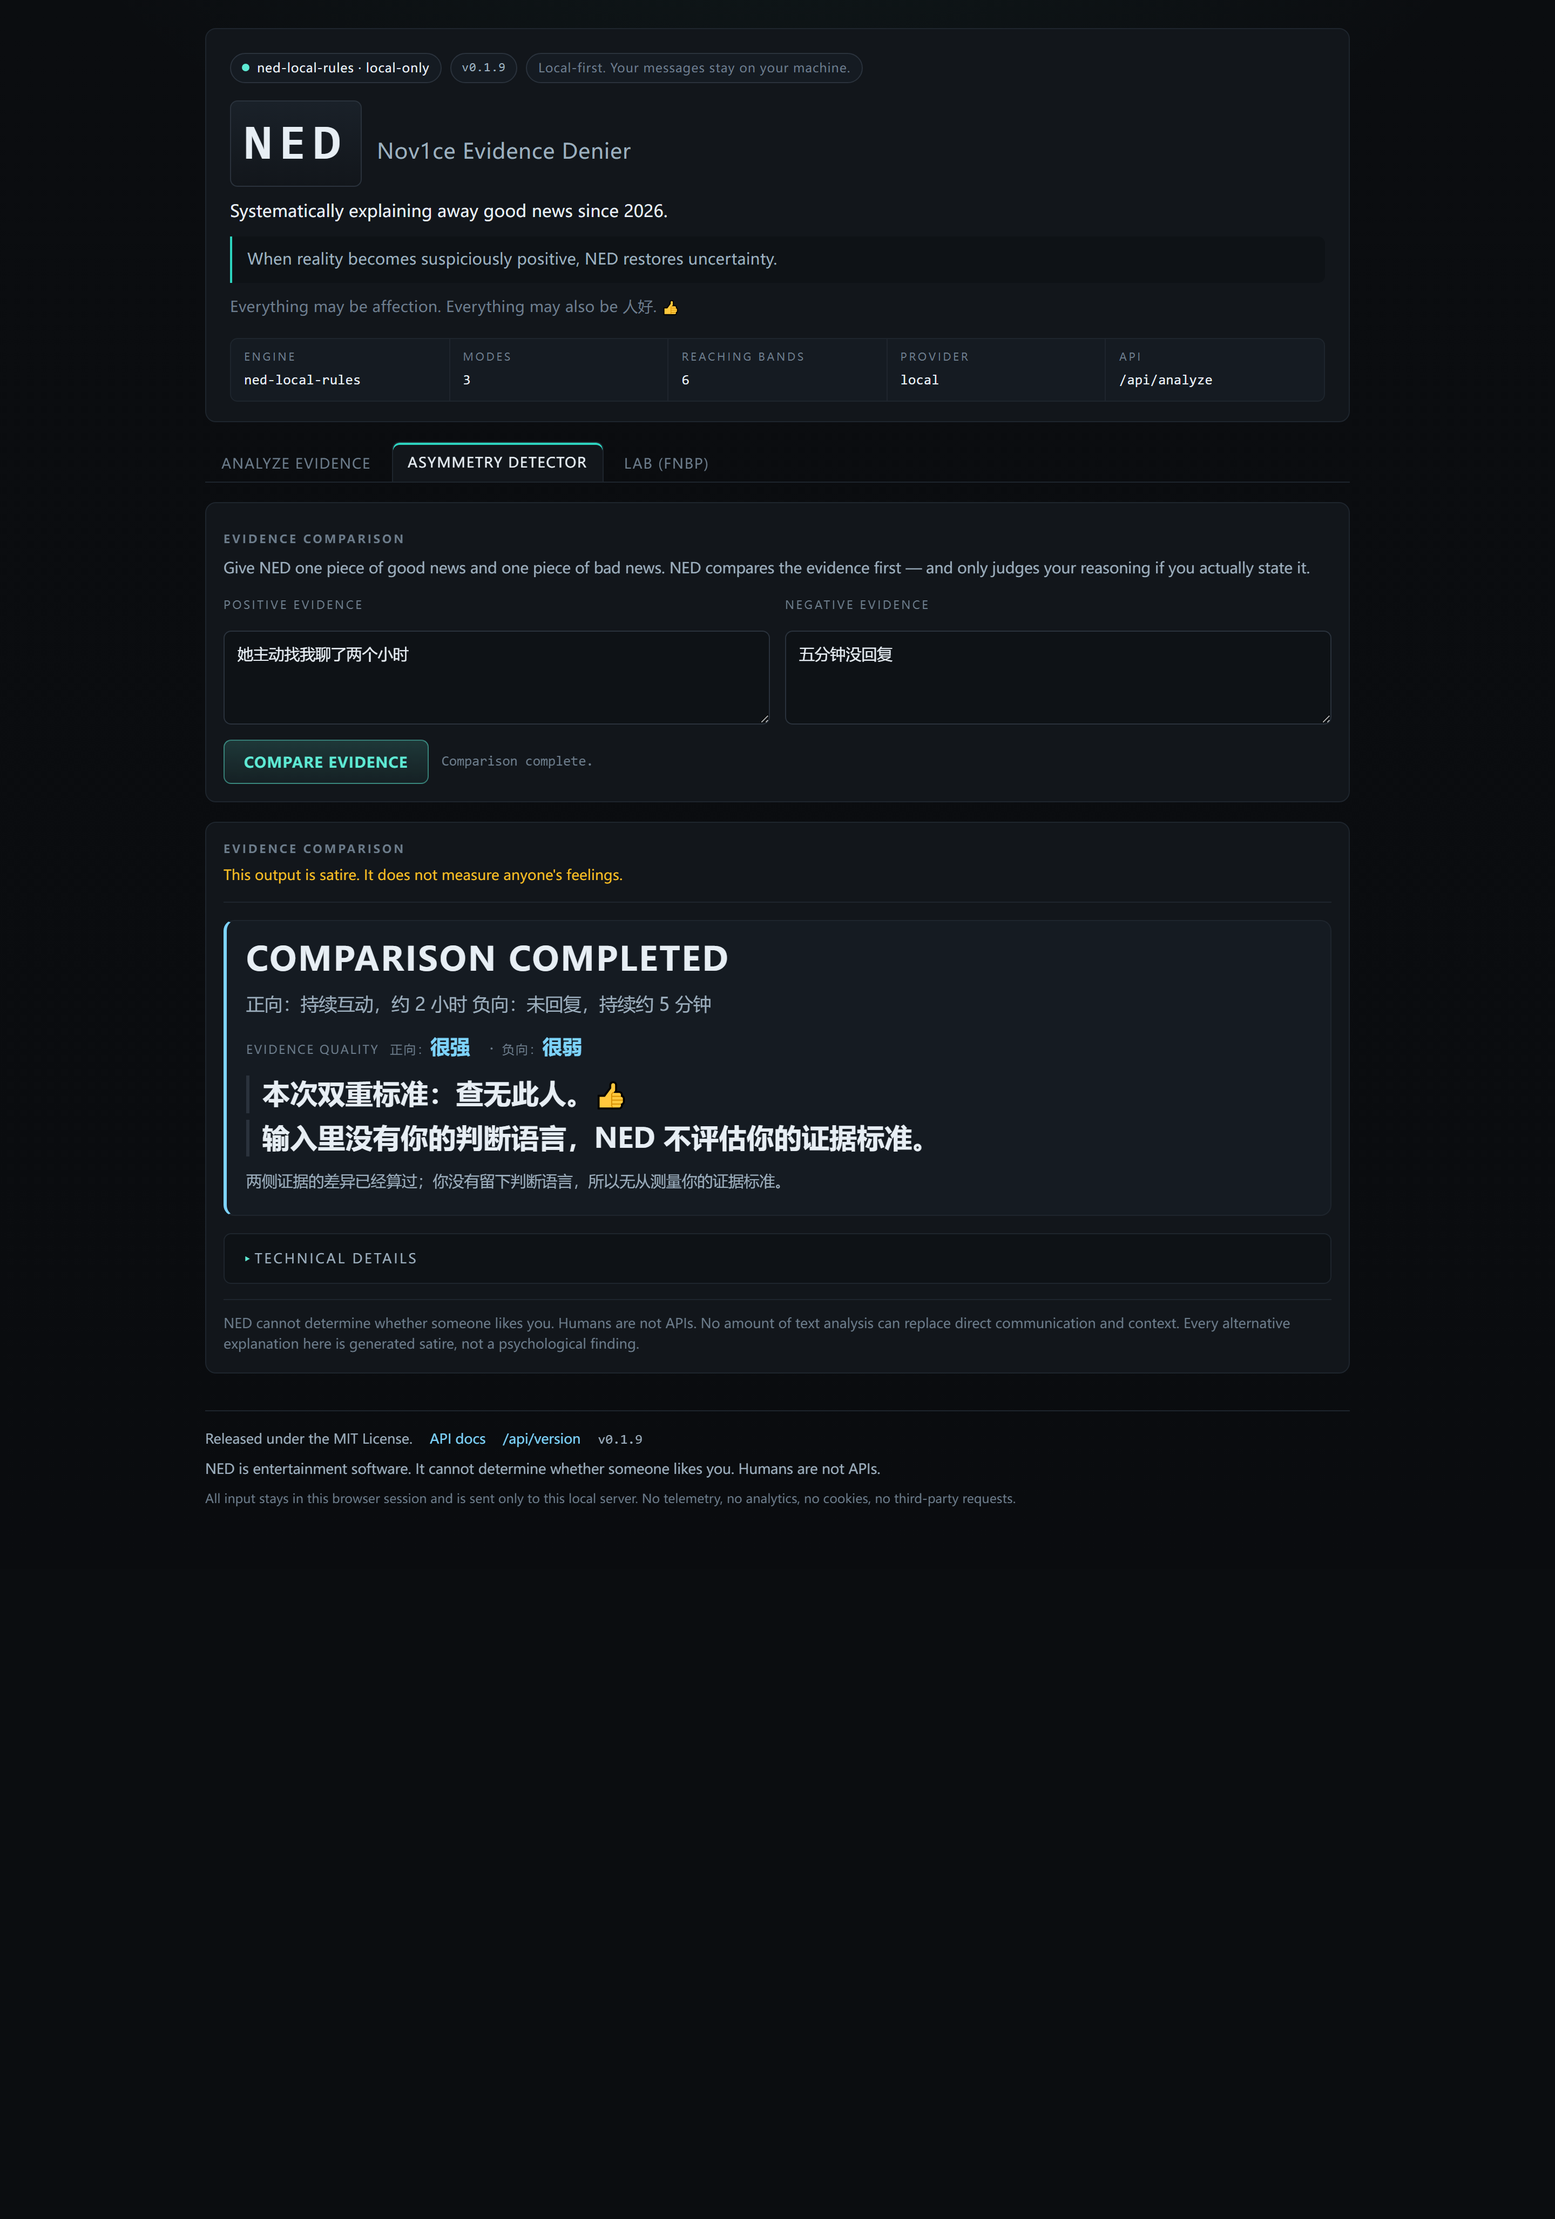
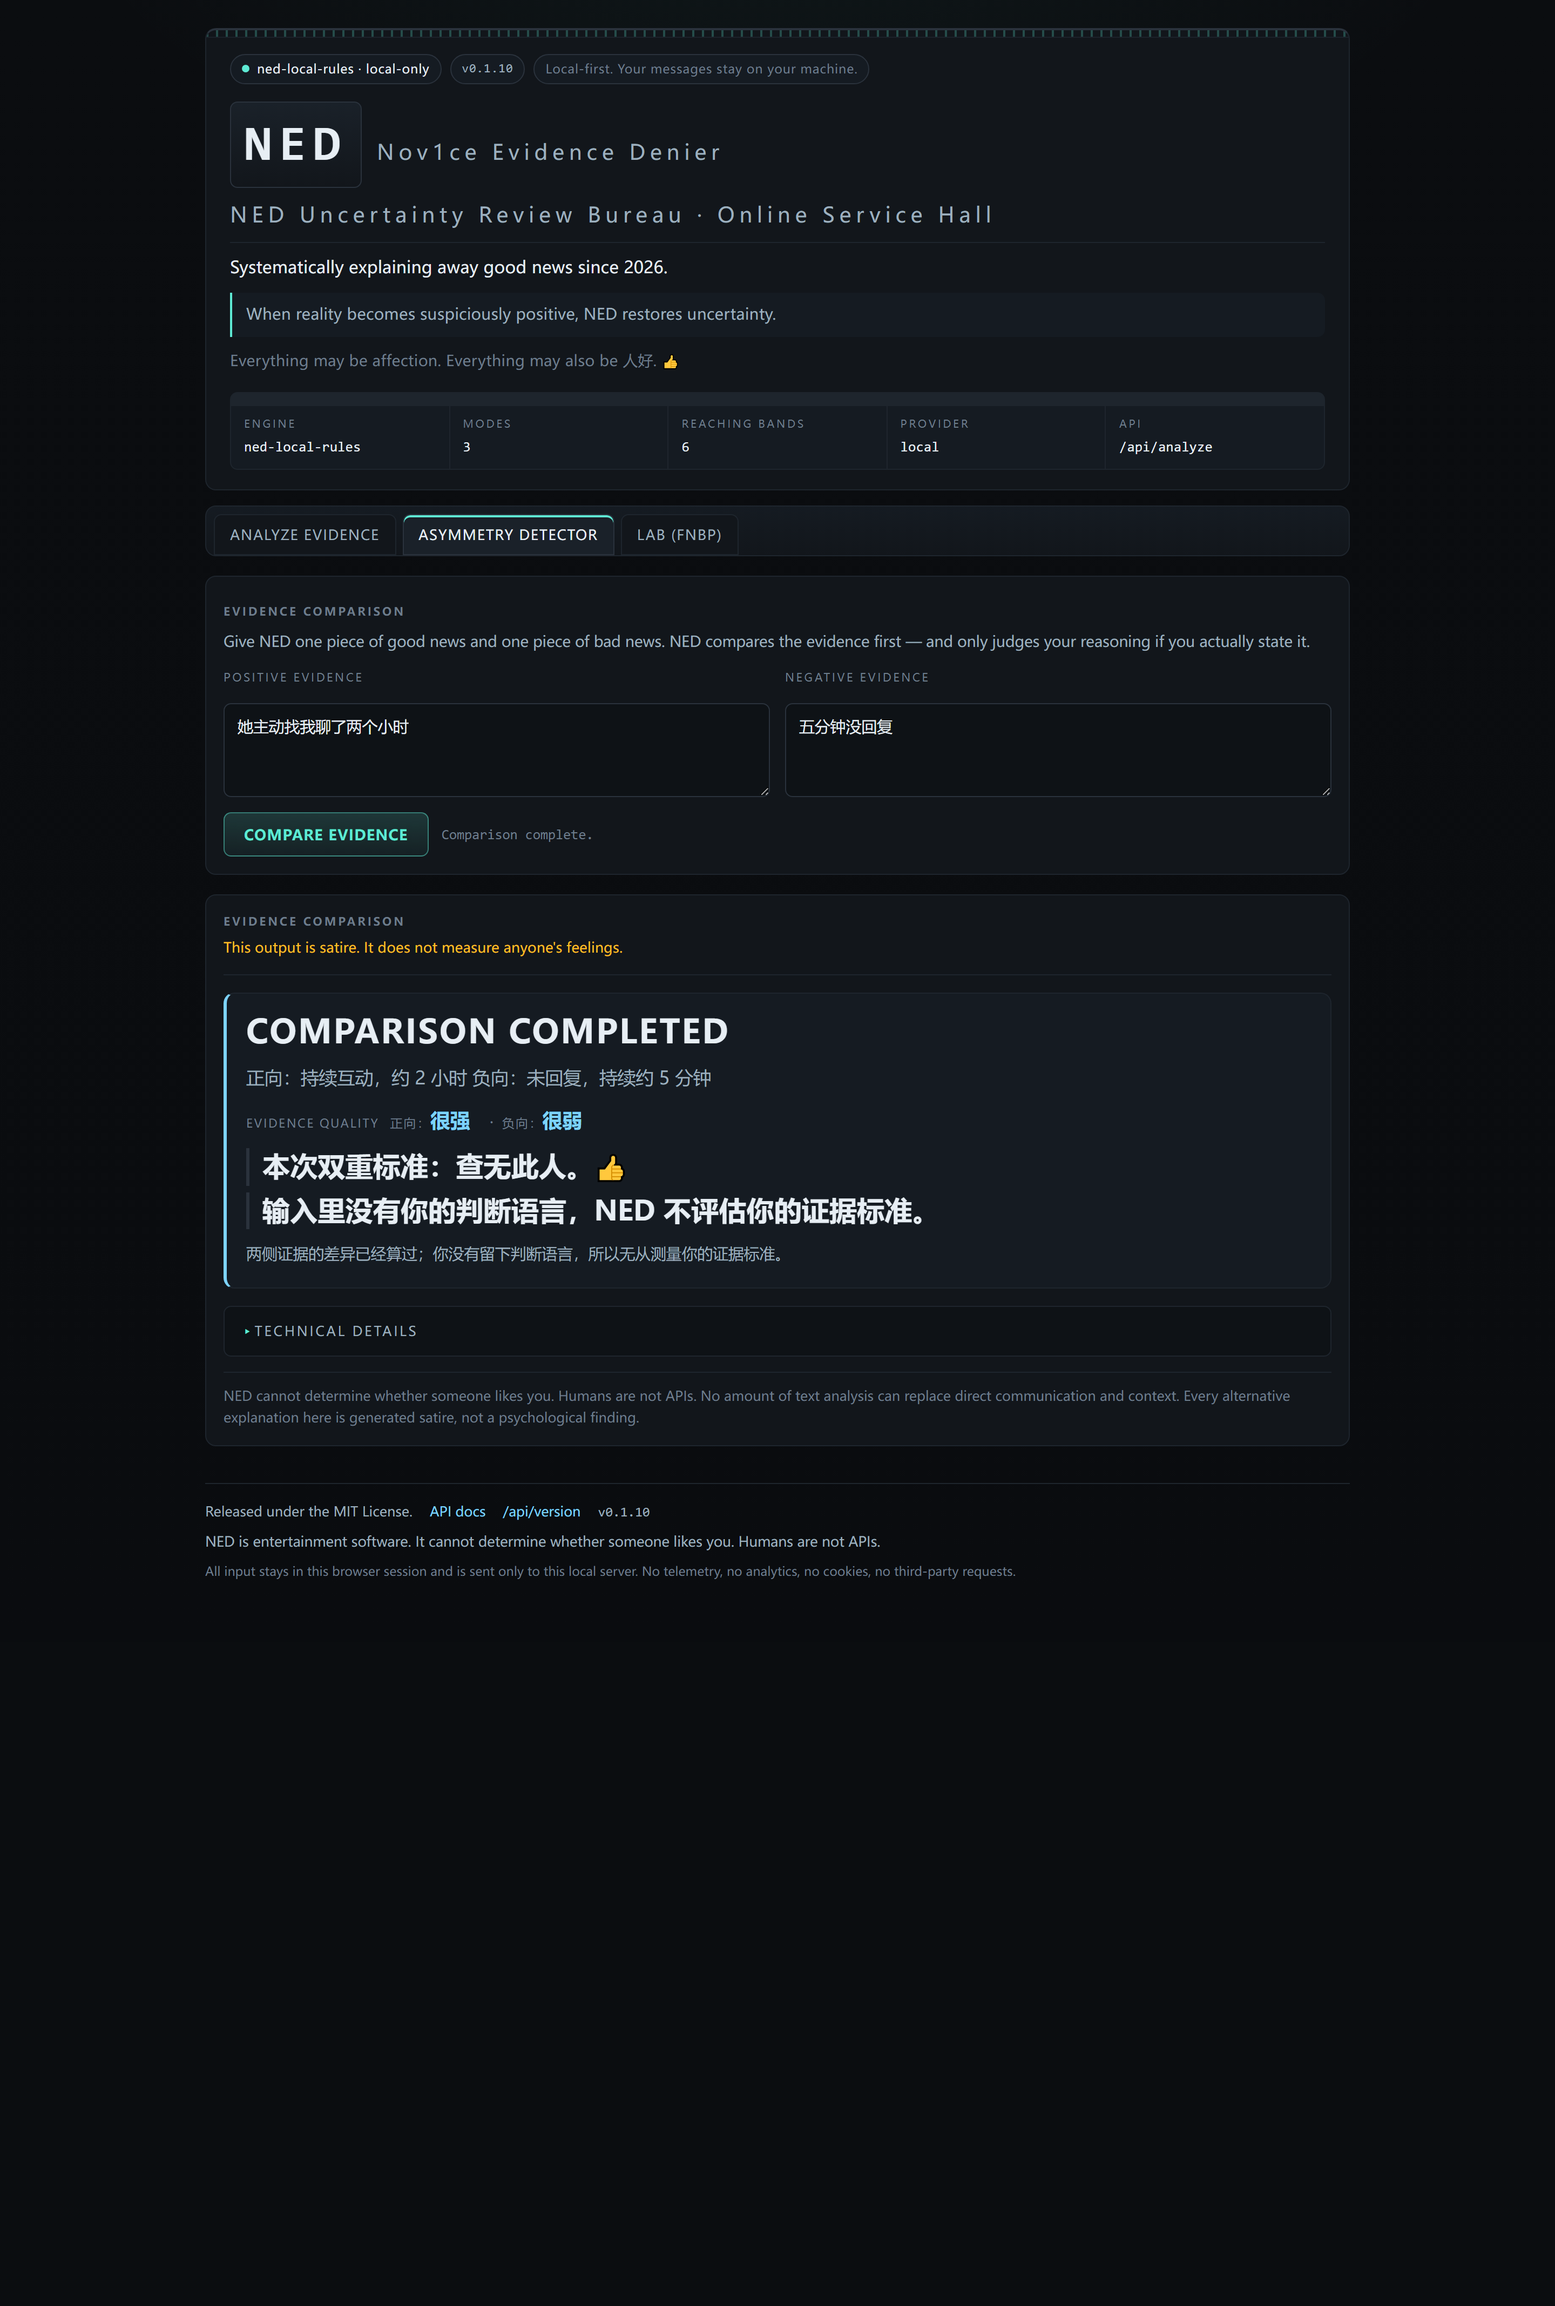
fix: verify the screenshots rendered, and re-capture the front desk
Two of the four capture readiness gates could never become true, so those images were shot
unverified: the asymmetry gate waited on #asym-score-value, an element two permanent pins ban
from the served page, and the FNBP gate counted child elements in #fnbp-log, which the renderer
fills with text instead. Both could only time out for twenty seconds, and the old wait_for result
was ignored. The gates now wait on what the current render contract actually sets - the
comparison screen title and verdict sentence, and the FNBP verdict sentence plus a non-empty
trace - the blind sleep before the CLI shot is replaced by a gate of the same kind, and
require_ready aborts instead of shooting without a verified signal. That guard is what surfaced
the second dead gate instead of silently shipping another unverified image.

With the gates fixed, the three web images are re-captured from the served 0.1.10 page into a
clean output directory and then put in place: renewed front desk (bureau line, window directory,
intake window, review record), each scenario's own report populated, and the 0.1.10 badge inside
every shot. The README rows read "current" again for those three, with the reproduction commands
unchanged. The CLI image is deliberately not regenerated: the script renders it from the
committed docs/cli-extreme.txt, which it reads rather than produces, so re-rendering reproduces a
byte-identical PNG whose last line still prints 0.1.9. That row stays marked historical with the
[…]

diff --git a/scripts/capture_screenshots.py b/scripts/capture_screenshots.py
@@ -120,6 +120,20 @@ class DevTools:
             await asyncio.sleep(0.25)
         return False
 
+    async def require_ready(self, expression: str, what: str, timeout: float = 20.0) -> None:
+        """Wait for a real readiness signal and refuse to shoot without one.
+
+        A gate that can never become true must fail loudly. The asymmetry gate used to
+        wait on ``#asym-score-value``, an element the served page no longer contains, so
+        it timed out for twenty seconds and the screenshot was taken anyway, unverified.
+        """
+
+        if not await self.wait_for(expression, timeout=timeout):
+            raise SystemExit(
+                f"readiness gate for {what} never became true within {timeout:.0f}s, "
+                f"so the screenshot was not taken: {expression}"
+            )
+
     async def screenshot(self, path: Path) -> None:
         metrics = await self.send("Page.getLayoutMetrics")
         size = metrics.get("cssContentSize") or metrics.get("contentSize") or {}
@@ -231,34 +245,50 @@ async def capture(base_url: str, out_dir: Path, port: int, browser: str, cli_onl
                     "  document.getElementById('analyze-submit').click();"
                     "})()"
                 )
-                await devtools.wait_for(
+                await devtools.require_ready(
                     "(() => { const r = document.getElementById('analyze-results');"
                     " return r && !r.hidden && !r.classList.contains('is-loading')"
                     " && (document.getElementById('verdict-text')||{}).textContent"
                     " && document.getElementById('verdict-text').textContent.trim()"
-                    " !== '\u2014'; })()"
+                    " !== '\u2014'; })()",
+                    "the analysis report",
                 )
                 await devtools.screenshot(out_dir / "analysis.png")
 
                 # 2. asymmetry detector
                 await devtools.evaluate("document.getElementById('tab-asymmetry').click()")
                 await devtools.evaluate("document.getElementById('asym-submit').click()")
-                await devtools.wait_for(
+                # The comparison report is ready when its own screen title and verdict
+                # sentence are populated; ``#asym-score-value`` no longer exists in the
+                # served page, so waiting on it could never succeed.
+                await devtools.require_ready(
                     "(() => { const r = document.getElementById('asym-results');"
+                    " const title = document.getElementById('asym-screen-title');"
+                    " const verdict = document.getElementById('asym-verdict-text');"
                     " return r && !r.hidden && !r.classList.contains('is-loading')"
-                    " && (document.getElementById('asym-score-value')||{}).textContent"
-                    " && document.getElementById('asym-score-value').textContent.trim()"
-                    " !== '\u2014'; })()"
+                    " && title && title.textContent.trim()"
+                    " && title.textContent.trim() !== '\u2014'"
+                    " && verdict && verdict.textContent.trim()"
+                    " && verdict.textContent.trim() !== '\u2014'; })()",
+                    "the asymmetry report",
                 )
                 await devtools.screenshot(out_dir / "asymmetry.png")
 
                 # 3. FNBP lab
                 await devtools.evaluate("document.getElementById('tab-lab').click()")
                 await devtools.evaluate("document.getElementById('fnbp-submit').click()")
-                await devtools.wait_for(
+                # ``renderFnbp`` writes the trace into ``#fnbp-log`` as text, so the old
+                # child-element count could never become true; the report is ready when its
+                # verdict sentence is populated and the trace has text.
+                await devtools.require_ready(
                     "(() => { const r = document.getElementById('fnbp-results');"
-                    " return r && !r.hidden && document.querySelectorAll("
-                    "  '#fnbp-log tr, #fnbp-log li, #fnbp-log div').length > 0; })()"
+                    " const verdict = document.getElementById('fnbp-verdict-text');"
+                    " const log = document.getElementById('fnbp-log');"
+                    " return r && !r.hidden && !r.classList.contains('is-loading')"
+                    " && verdict && verdict.textContent.trim()"
+                    " && verdict.textContent.trim() !== '\u2014'"
+                    " && log && (log.textContent || '').trim().length > 0; })()",
+                    "the FNBP report",
                 )
                 await devtools.screenshot(out_dir / "fnbp-lab.png")
 
@@ -274,7 +304,12 @@ async def capture(base_url: str, out_dir: Path, port: int, browser: str, cli_onl
                 + json.dumps(cli_harness_html())
                 + "); document.close();"
             )
-            await asyncio.sleep(0.5)
+            await devtools.require_ready(
+                "document.readyState === 'complete'"
+                " && !!document.querySelector('pre')"
+                " && document.querySelector('pre').textContent.trim().length > 0",
+                "the rendered CLI capture page",
+            )
             await devtools.screenshot(out_dir / "cli-extreme.png")
         return 0
     finally:

diff --git a/README.md b/README.md
@@ -133,19 +133,21 @@ whichever department the evidence belongs to.** 👍
 
 | View | Image | Status |
 | --- | --- | --- |
-| Web UI — analysis | [`docs/screenshots/analysis.png`](docs/screenshots/analysis.png) | **historical** — predates the front-desk renewal; re-capture pending |
-| Web UI — asymmetry detector | [`docs/screenshots/asymmetry.png`](docs/screenshots/asymmetry.png) | **historical** — predates the front-desk renewal; re-capture pending |
-| Web UI — FNBP lab | [`docs/screenshots/fnbp-lab.png`](docs/screenshots/fnbp-lab.png) | **historical** — predates the front-desk renewal; re-capture pending |
-| CLI — extreme mode | [`docs/screenshots/cli-extreme.png`](docs/screenshots/cli-extreme.png) | **historical** — captured at 0.1.9; re-capture pending |
+| Web UI — analysis | [`docs/screenshots/analysis.png`](docs/screenshots/analysis.png) | **current** — re-captured from the 0.1.10 UI |
+| Web UI — asymmetry detector | [`docs/screenshots/asymmetry.png`](docs/screenshots/asymmetry.png) | **current** — re-captured from the 0.1.10 UI |
+| Web UI — FNBP lab | [`docs/screenshots/fnbp-lab.png`](docs/screenshots/fnbp-lab.png) | **current** — re-captured from the 0.1.10 UI |
+| CLI — extreme mode | [`docs/screenshots/cli-extreme.png`](docs/screenshots/cli-extreme.png) | **historical** — the 0.1.9 capture; its source `docs/cli-extreme.txt` is an input to the capture script, so it is not regenerated here |
 
 All four views are exercised by the test suite (`tests/test_api.py`,
 `tests/test_cli.py`) and were captured from the real local UI/CLI. The engine
 version each image was captured from is printed inside the image itself, so an
 image always shows its own capture version — which is exactly why it has to be
 re-captured after a UI change or a version bump instead of being assumed current.
-At this commit the three web images predate the front-desk renewal and all four
-predate 0.1.10, so they are marked historical above until re-captured. Re-capture
-with:
+The three web images were re-captured from the 0.1.10 UI: the front desk is the
+renewed one, and each shot was taken only after its own readiness gate proved the
+report had rendered. The CLI image is still the 0.1.9 capture, because the script
+renders it from the committed `docs/cli-extreme.txt` rather than producing that
+file, so regenerating it is a separate change. Re-capture with:
 
 ```bash
 ned serve --port 8742                          # terminal 1
